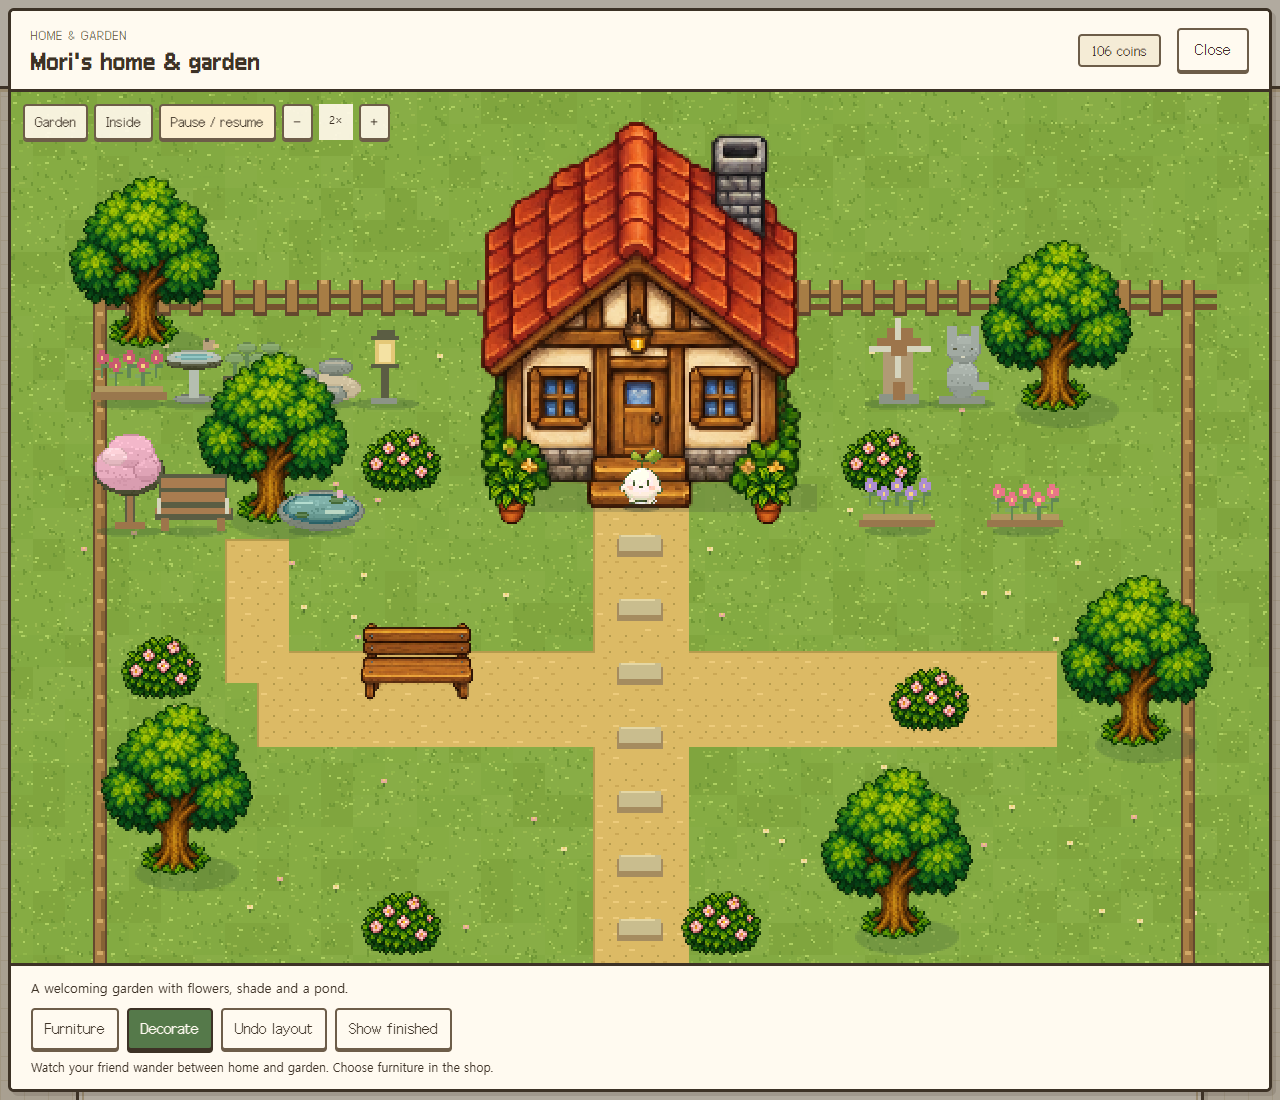
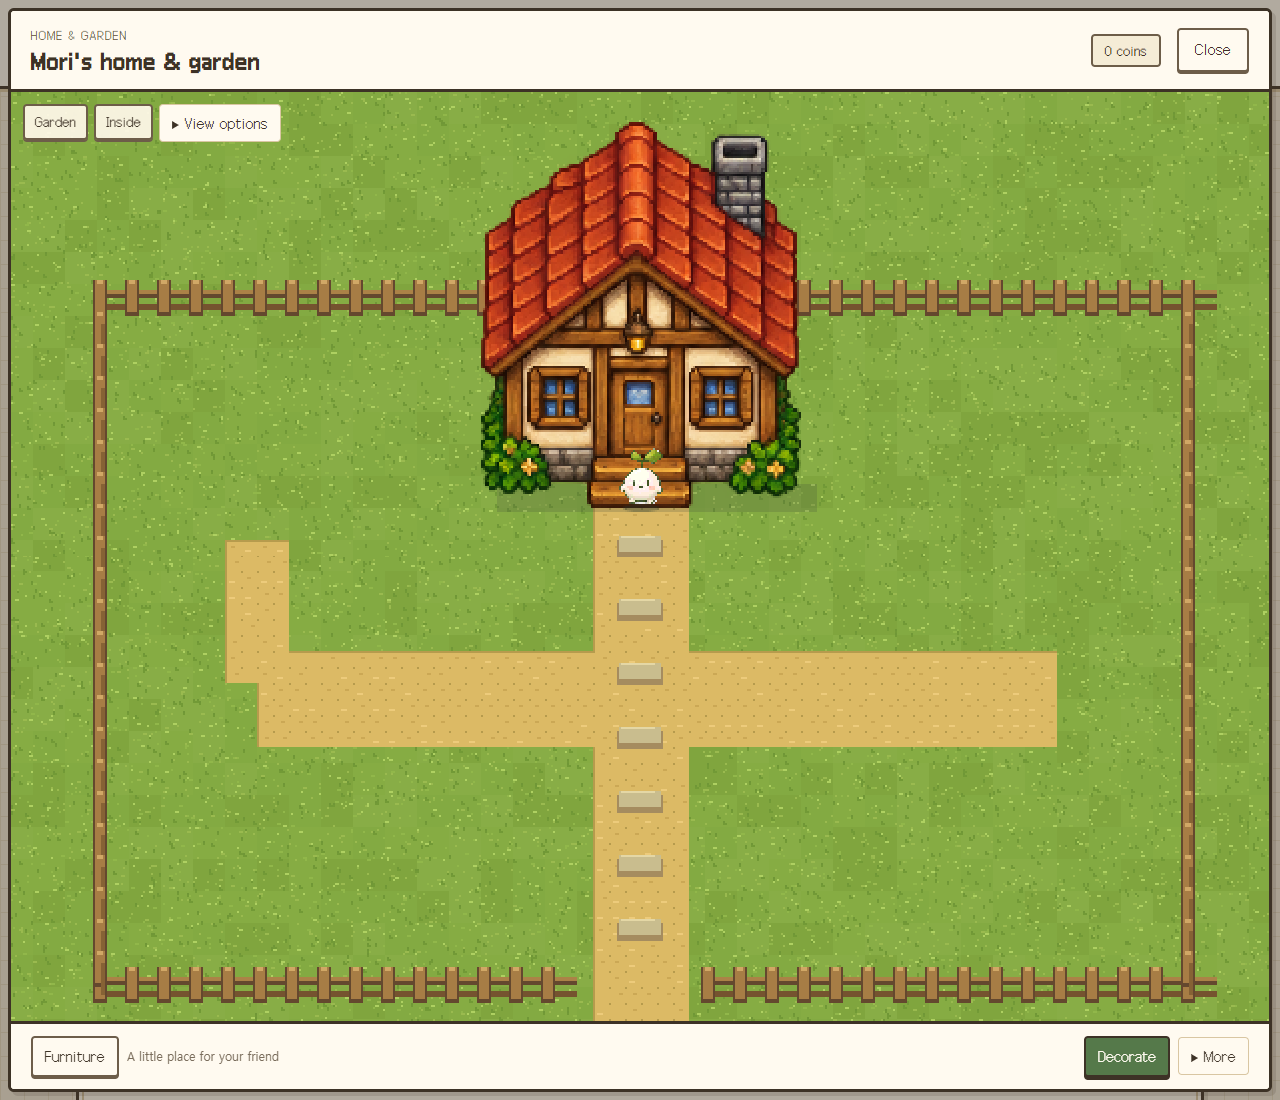
Refresh 1.4.10 review description and current home screenshots

diff --git a/anna/store/README.md b/anna/store/README.md
@@ -1,16 +1,16 @@
-# Store screenshots - 1.4.9
+# Store screenshots - 1.4.10
 
 Captured from the current shipped UI using disposable real-Python-engine views and the existing Anna-generated Mori reference/portrait. No live user data, new paid AI, or production storage calls. No conversation is fabricated.
 
 Listing order (Anna allows six):
 1. 02-companion-and-care.png: companion, chat, care and the optional care-AI checkbox.
-2. 07-home-garden.png: cottage and garden with twelve purchased garden objects.
-3. 08-garden-shop.png: All 48 / Inside 12 / Garden 36 filters and garden styles.
+2. 07-home-garden.png: empty starting yard with cottage, lawn, paths and fence; no separate default trees or decorations.
+3. 08-garden-shop.png: new split-pane shop beside a decorated demo garden, Shop/My collection tabs, All 48 / Inside 12 / Garden 36 filters and garden styles.
 4. 04-draw-your-companion.png: actual drawing editor and the recorded reference.
 5. 05-pixel-dungeon.png: current dungeon preview before entry, using the same companion.
 6. 06-item-book.png: current 24-design item book, not owned/equipped inventory.
 
-The title, welcome and simplified growth album are also recaptured but are not in the six listing slots. All six listing captures were visually inspected.
+The title, welcome, simplified growth album and new My collection view (09-home-collection.png) are also recaptured but are not in the six listing slots. All six listing captures were visually inspected.
 
 Reproduce: `node scripts/capture_store.mjs` from anna/. The capture browser blocks outside requests and every AI or persistence mutation. The garden fixture starts with 200 disposable demo coins, buys twelve garden objects through the real rules and applies validated candidates without calling an LLM. This does not represent production ownership or an AI-generated decision. Its reason is sample scene copy. The home uses the free local pixel conversion of the recorded portrait, not invented directional poses. Production garden placement, purchases and AI-call bounds are tested separately.
 

diff --git a/docs/screenshots/README.md b/docs/screenshots/README.md
@@ -1,6 +1,6 @@
-# Current 1.4.9 listing captures
+# Current 1.4.10 listing captures
 
-The six listing images were recaptured from the latest UI, including the home garden, 36-item garden shop and optional care AI. See [capture sources and isolation details](../../anna/store/README.md). Existing linked store image paths now show the current UI. The following entries describe historical captures.
+The six listing images were recaptured from the latest UI, including the empty starting yard, redesigned home shop/collection, 36-item garden catalog and optional care AI. See [capture sources and isolation details](../../anna/store/README.md). Existing linked store image paths now show the current UI. The following entries describe historical captures.
 
 # README screenshot sources
 
